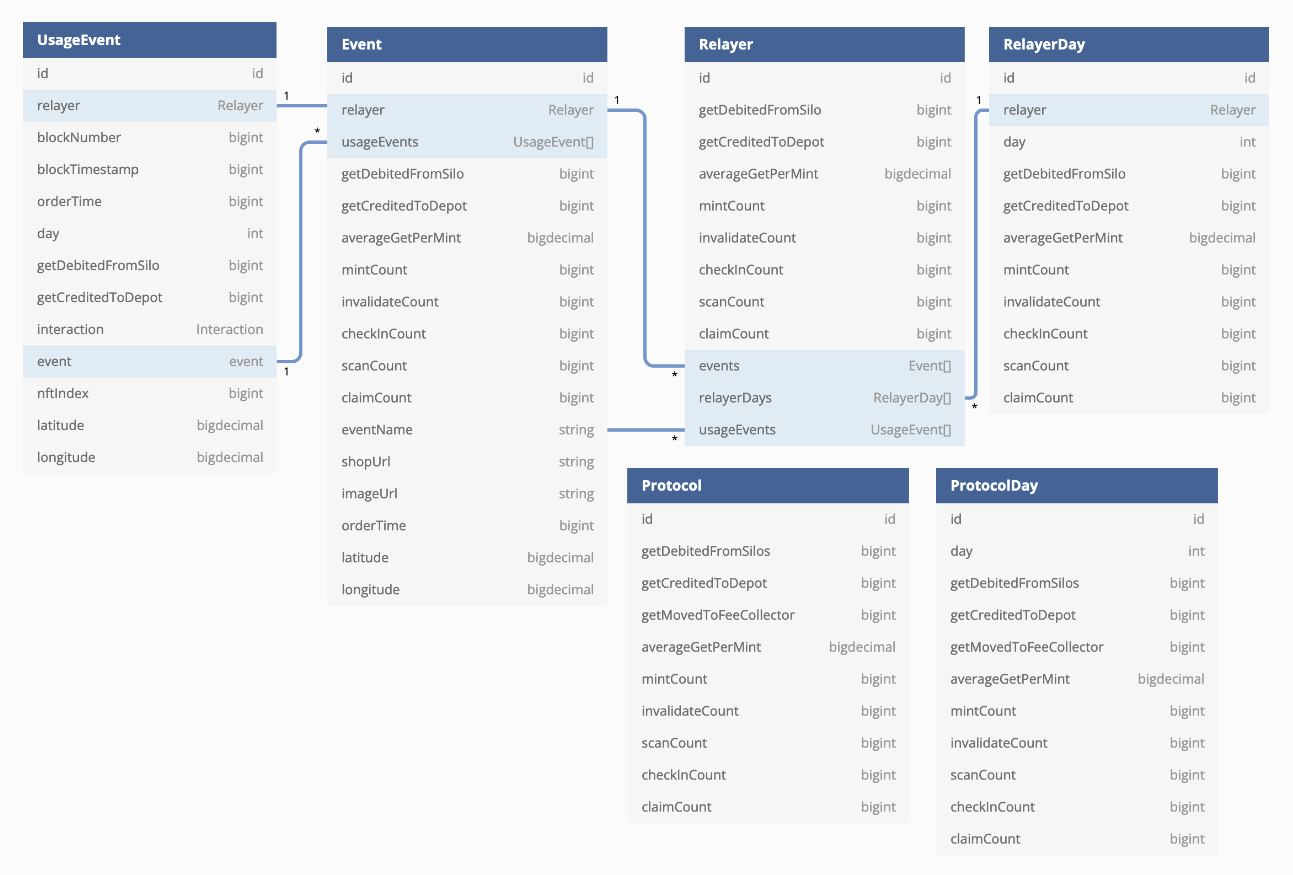
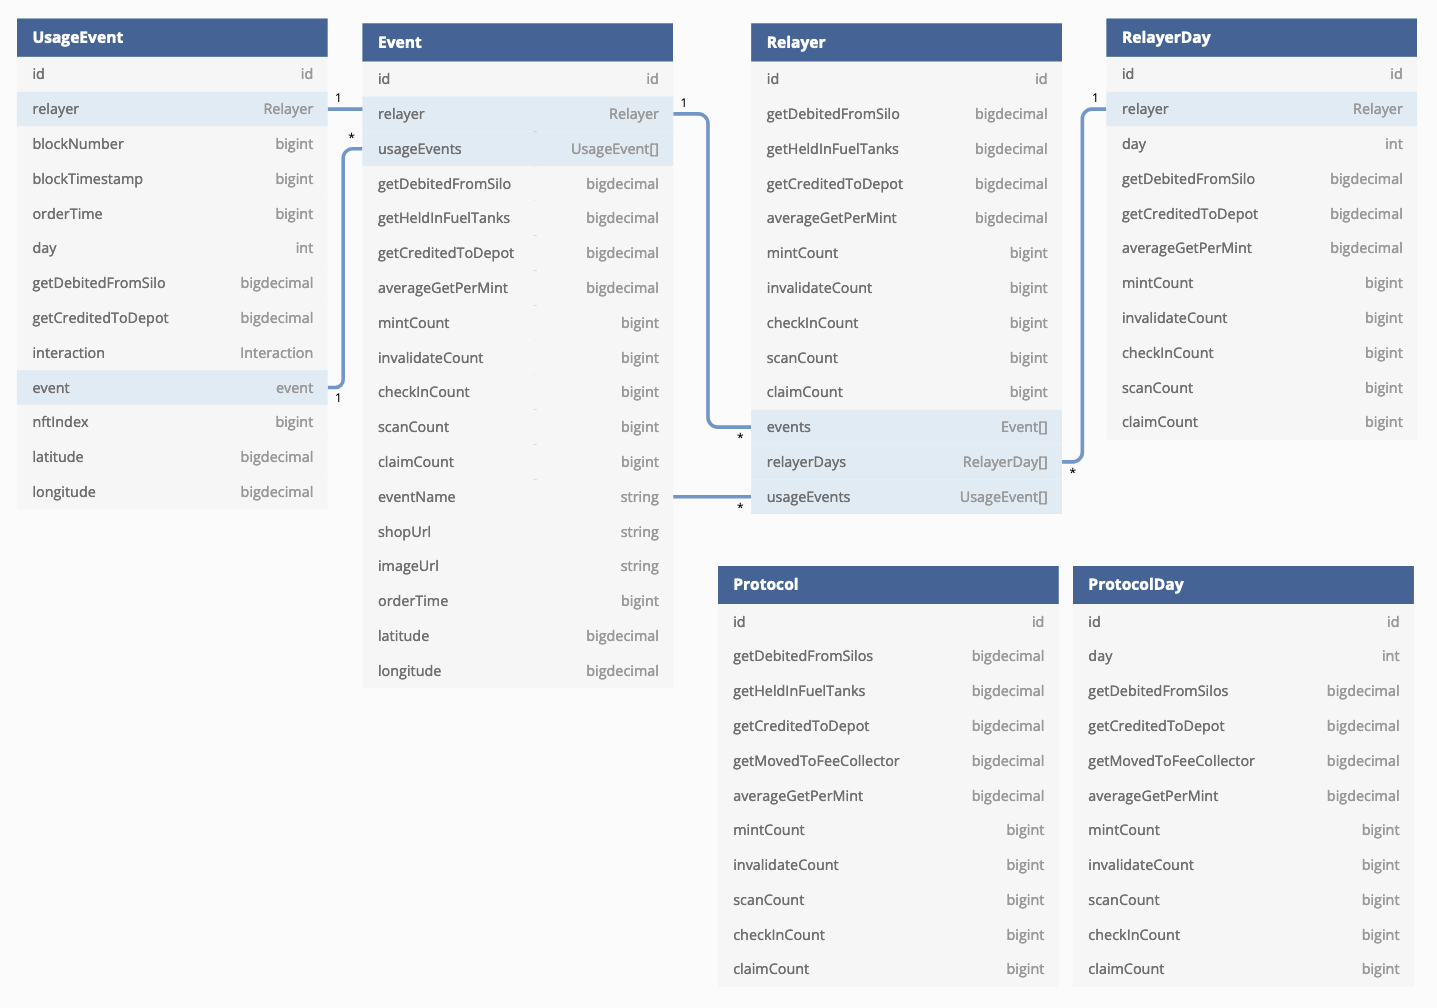
feat: v2 readiness against production
Tests the v2 contract ABIs against the production deployed proxies. This
commit should take us almost to being ready, aside from changing the
FUEL_ACTIVATED_BLOCK constant.

Changed region(s): [[0.0, 0.0, 0.9899, 0.9874], [0.8662, 0.648, 0.9899, 0.8949], [0.8971, 0.9566, 0.9899, 0.9874]]

diff --git a/src/mappings/v2/baseGET.ts b/src/mappings/v2/baseGET.ts
@@ -1,4 +1,4 @@
-import { BIG_INT_ONE, FUEL_ACTIVATED_BLOCK } from "../../constants";
+import { BIG_DECIMAL_1E18, BIG_INT_ONE, FUEL_ACTIVATED_BLOCK } from "../../constants";
 import { PrimarySaleMint, TicketInvalidated, TicketScanned, NftClaimed, CheckedIn } from "../../../generated/BaseGETV2/BaseGETV2";
 import { getProtocol, getRelayer, getProtocolDay, getRelayerDay, getEventByNftIndexV2, createUsageEvent } from "../../entities";
 
@@ -17,17 +17,21 @@ export function handlePrimarySaleMint(e: PrimarySaleMint): void {
   event.mintCount = event.mintCount.plus(BIG_INT_ONE);
 
   if (e.block.number.ge(FUEL_ACTIVATED_BLOCK)) {
-    protocol.getDebitedFromSilos = protocol.getDebitedFromSilos.plus(e.params.getUsed);
-    protocolDay.getDebitedFromSilos = protocolDay.getDebitedFromSilos.plus(e.params.getUsed);
-    relayer.getDebitedFromSilo = relayer.getDebitedFromSilo.plus(e.params.getUsed);
-    relayerDay.getDebitedFromSilo = relayerDay.getDebitedFromSilo.plus(e.params.getUsed);
-    event.getDebitedFromSilo = event.getDebitedFromSilo.plus(e.params.getUsed);
+    protocol.getDebitedFromSilos = protocol.getDebitedFromSilos.plus(e.params.getUsed.divDecimal(BIG_DECIMAL_1E18));
+    protocolDay.getDebitedFromSilos = protocolDay.getDebitedFromSilos.plus(e.params.getUsed.divDecimal(BIG_DECIMAL_1E18));
+    relayer.getDebitedFromSilo = relayer.getDebitedFromSilo.plus(e.params.getUsed.divDecimal(BIG_DECIMAL_1E18));
+    relayerDay.getDebitedFromSilo = relayerDay.getDebitedFromSilo.plus(e.params.getUsed.divDecimal(BIG_DECIMAL_1E18));
+    event.getDebitedFromSilo = event.getDebitedFromSilo.plus(e.params.getUsed.divDecimal(BIG_DECIMAL_1E18));
 
-    protocol.averageGetPerMint = protocol.getDebitedFromSilos.toBigDecimal().div(protocol.mintCount.toBigDecimal());
-    protocolDay.averageGetPerMint = protocolDay.getDebitedFromSilos.toBigDecimal().div(protocolDay.mintCount.toBigDecimal());
-    relayer.averageGetPerMint = relayer.getDebitedFromSilo.toBigDecimal().div(relayer.mintCount.toBigDecimal());
-    relayerDay.averageGetPerMint = relayerDay.getDebitedFromSilo.toBigDecimal().div(relayerDay.mintCount.toBigDecimal());
-    event.averageGetPerMint = event.getDebitedFromSilo.toBigDecimal().div(event.mintCount.toBigDecimal());
+    protocol.getHeldInFuelTanks = protocol.getHeldInFuelTanks.plus(e.params.getUsed.divDecimal(BIG_DECIMAL_1E18));
+    relayer.getHeldInFuelTanks = relayer.getHeldInFuelTanks.plus(e.params.getUsed.divDecimal(BIG_DECIMAL_1E18));
+    event.getHeldInFuelTanks = event.getHeldInFuelTanks.plus(e.params.getUsed.divDecimal(BIG_DECIMAL_1E18));
+
+    protocol.averageGetPerMint = protocol.getDebitedFromSilos.div(protocol.mintCount.toBigDecimal());
+    protocolDay.averageGetPerMint = protocolDay.getDebitedFromSilos.div(protocolDay.mintCount.toBigDecimal());
+    relayer.averageGetPerMint = relayer.getDebitedFromSilo.div(relayer.mintCount.toBigDecimal());
+    relayerDay.averageGetPerMint = relayerDay.getDebitedFromSilo.div(relayerDay.mintCount.toBigDecimal());
+    event.averageGetPerMint = event.getDebitedFromSilo.div(event.mintCount.toBigDecimal());
   }
 
   protocol.save();
@@ -54,11 +58,15 @@ export function handleTicketInvalidated(e: TicketInvalidated): void {
   event.invalidateCount = event.invalidateCount.plus(BIG_INT_ONE);
 
   if (e.block.number.ge(FUEL_ACTIVATED_BLOCK)) {
-    protocol.getCreditedToDepot = protocol.getCreditedToDepot.plus(e.params.getUsed);
-    protocolDay.getCreditedToDepot = protocolDay.getCreditedToDepot.plus(e.params.getUsed);
-    relayer.getCreditedToDepot = relayer.getCreditedToDepot.plus(e.params.getUsed);
-    relayerDay.getCreditedToDepot = relayerDay.getCreditedToDepot.plus(e.params.getUsed);
-    event.getCreditedToDepot = event.getCreditedToDepot.plus(e.params.getUsed);
+    protocol.getCreditedToDepot = protocol.getCreditedToDepot.plus(e.params.getUsed.divDecimal(BIG_DECIMAL_1E18));
+    protocolDay.getCreditedToDepot = protocolDay.getCreditedToDepot.plus(e.params.getUsed.divDecimal(BIG_DECIMAL_1E18));
+    relayer.getCreditedToDepot = relayer.getCreditedToDepot.plus(e.params.getUsed.divDecimal(BIG_DECIMAL_1E18));
+    relayerDay.getCreditedToDepot = relayerDay.getCreditedToDepot.plus(e.params.getUsed.divDecimal(BIG_DECIMAL_1E18));
+    event.getCreditedToDepot = event.getCreditedToDepot.plus(e.params.getUsed.divDecimal(BIG_DECIMAL_1E18));
+
+    protocol.getHeldInFuelTanks = protocol.getHeldInFuelTanks.minus(e.params.getUsed.divDecimal(BIG_DECIMAL_1E18));
+    relayer.getHeldInFuelTanks = relayer.getHeldInFuelTanks.minus(e.params.getUsed.divDecimal(BIG_DECIMAL_1E18));
+    event.getHeldInFuelTanks = event.getHeldInFuelTanks.minus(e.params.getUsed.divDecimal(BIG_DECIMAL_1E18));
   }
 
   protocol.save();
@@ -85,11 +93,15 @@ export function handleTicketScanned(e: TicketScanned): void {
   event.scanCount = event.scanCount.plus(BIG_INT_ONE);
 
   if (e.block.number.ge(FUEL_ACTIVATED_BLOCK)) {
-    protocol.getCreditedToDepot = protocol.getCreditedToDepot.plus(e.params.getUsed);
-    protocolDay.getCreditedToDepot = protocolDay.getCreditedToDepot.plus(e.params.getUsed);
-    relayer.getCreditedToDepot = relayer.getCreditedToDepot.plus(e.params.getUsed);
-    relayerDay.getCreditedToDepot = relayerDay.getCreditedToDepot.plus(e.params.getUsed);
-    event.getCreditedToDepot = event.getCreditedToDepot.plus(e.params.getUsed);
+    protocol.getCreditedToDepot = protocol.getCreditedToDepot.plus(e.params.getUsed.divDecimal(BIG_DECIMAL_1E18));
+    protocolDay.getCreditedToDepot = protocolDay.getCreditedToDepot.plus(e.params.getUsed.divDecimal(BIG_DECIMAL_1E18));
+    relayer.getCreditedToDepot = relayer.getCreditedToDepot.plus(e.params.getUsed.divDecimal(BIG_DECIMAL_1E18));
+    relayerDay.getCreditedToDepot = relayerDay.getCreditedToDepot.plus(e.params.getUsed.divDecimal(BIG_DECIMAL_1E18));
+    event.getCreditedToDepot = event.getCreditedToDepot.plus(e.params.getUsed.divDecimal(BIG_DECIMAL_1E18));
+
+    protocol.getHeldInFuelTanks = protocol.getHeldInFuelTanks.minus(e.params.getUsed.divDecimal(BIG_DECIMAL_1E18));
+    relayer.getHeldInFuelTanks = relayer.getHeldInFuelTanks.minus(e.params.getUsed.divDecimal(BIG_DECIMAL_1E18));
+    event.getHeldInFuelTanks = event.getHeldInFuelTanks.minus(e.params.getUsed.divDecimal(BIG_DECIMAL_1E18));
   }
 
   protocol.save();
@@ -116,11 +128,15 @@ export function handleCheckedIn(e: CheckedIn): void {
   event.claimCount = event.claimCount.plus(BIG_INT_ONE);
 
   if (e.block.number.ge(FUEL_ACTIVATED_BLOCK)) {
-    protocol.getCreditedToDepot = protocol.getCreditedToDepot.plus(e.params.getUsed);
-    protocolDay.getCreditedToDepot = protocolDay.getCreditedToDepot.plus(e.params.getUsed);
-    relayer.getCreditedToDepot = relayer.getCreditedToDepot.plus(e.params.getUsed);
-    relayerDay.getCreditedToDepot = relayerDay.getCreditedToDepot.plus(e.params.getUsed);
-    event.getCreditedToDepot = event.getCreditedToDepot.plus(e.params.getUsed);
+    protocol.getCreditedToDepot = protocol.getCreditedToDepot.plus(e.params.getUsed.divDecimal(BIG_DECIMAL_1E18));
+    protocolDay.getCreditedToDepot = protocolDay.getCreditedToDepot.plus(e.params.getUsed.divDecimal(BIG_DECIMAL_1E18));
+    relayer.getCreditedToDepot = relayer.getCreditedToDepot.plus(e.params.getUsed.divDecimal(BIG_DECIMAL_1E18));
+    relayerDay.getCreditedToDepot = relayerDay.getCreditedToDepot.plus(e.params.getUsed.divDecimal(BIG_DECIMAL_1E18));
+    event.getCreditedToDepot = event.getCreditedToDepot.plus(e.params.getUsed.divDecimal(BIG_DECIMAL_1E18));
+
+    protocol.getHeldInFuelTanks = protocol.getHeldInFuelTanks.minus(e.params.getUsed.divDecimal(BIG_DECIMAL_1E18));
+    relayer.getHeldInFuelTanks = relayer.getHeldInFuelTanks.minus(e.params.getUsed.divDecimal(BIG_DECIMAL_1E18));
+    event.getHeldInFuelTanks = event.getHeldInFuelTanks.minus(e.params.getUsed.divDecimal(BIG_DECIMAL_1E18));
   }
 
   protocol.save();

diff --git a/src/constants/index.ts b/src/constants/index.ts
@@ -1,30 +1,29 @@
 import { Address, BigDecimal, BigInt } from "@graphprotocol/graph-ts";
 
 export let EVENT_METADATA_STORAGE_ADDRESS_V1 = Address.fromString("0xcDA348fF8C175f305Ed8682003ec6F8743067f79");
-export let EVENT_METADATA_STORAGE_ADDRESS_V2 = Address.fromString("0x8Af4404b7158Eb0fe8dD5f7AC57e783cbDf68bF0");
+export let EVENT_METADATA_STORAGE_ADDRESS_V2 = Address.fromString("0x08C2aF3F01A36AD9F274ccE77f6f77cf9aa1dfC9");
 export let NFT_ADDRESS_V1 = Address.fromString("0x308e44cA2153C61103b0DC67Fd038De650912b73");
-export let NFT_ADDRESS_V2 = Address.fromString("0xDf97dB4828a8D985c9ef617004a9BD9f9eE3fac2");
+export let NFT_ADDRESS_V2 = Address.fromString("0xbce1b23c7544422f1E2208d29A6A3AA9fAbAB250");
 export let ADDRESS_ZERO = Address.fromString("0x0000000000000000000000000000000000000000");
-
[1 lines of base64/hex data omitted]
 
 // endBlock is not yet natively supported in subgraph.yaml meaning that we manually need to skip
 // events for old ABI versions after the point they are switched. If the event name changes then
 // this would not be required, but we apply this across all hanlders for safety and consistency.
 // See: https://github.com/graphprotocol/support/issues/49
-export let V1_END_BLOCK = BigInt.fromI32(20083296);
-export let FUEL_ACTIVATED_BLOCK = BigInt.fromI32(20083296);
+export let V1_END_BLOCK = BigInt.fromI32(20384301);
+// txHash: 0x47bdbebd125bd5c1ec8ce0d6a719da55543875f7c2cd7c1a49da19bbf04208ec
+export let FUEL_ACTIVATED_BLOCK = BigInt.fromI32(20386345);
 
+export let BIG_DECIMAL_ZERO = BigDecimal.fromString("0");
+export let BIG_DECIMAL_ONE = BigDecimal.fromString("1");
 export let BIG_DECIMAL_1E6 = BigDecimal.fromString("1e6");
 export let BIG_DECIMAL_1E12 = BigDecimal.fromString("1e12");
 export let BIG_DECIMAL_1E18 = BigDecimal.fromString("1e18");
-export let BIG_DECIMAL_ZERO = BigDecimal.fromString("0");
-export let BIG_DECIMAL_ONE = BigDecimal.fromString("1");
 
+export let BIG_INT_MINUS_ONE = BigInt.fromI32(-1);
+export let BIG_INT_ZERO = BigInt.fromI32(0);
 export let BIG_INT_ONE = BigInt.fromI32(1);
 export let BIG_INT_TWO = BigInt.fromI32(2);
 export let BIG_INT_TEN = BigInt.fromI32(10);
 export let BIG_INT_ONE_HUNDRED = BigInt.fromI32(100);
 export let BIG_INT_ONE_DAY_SECONDS = BigInt.fromI32(86400);
-export let BIG_INT_ZERO = BigInt.fromI32(0);
-export let BIG_INT_MINUS_ONE = BigInt.fromI32(-1);

diff --git a/src/entities/usageEvent.ts b/src/entities/usageEvent.ts
@@ -1,6 +1,6 @@
 import { BigInt, ethereum } from "@graphprotocol/graph-ts";
 import { Event, UsageEvent } from "../../generated/schema";
-import { BIG_DECIMAL_ZERO, BIG_INT_ZERO } from "../constants";
+import { BIG_DECIMAL_1E18, BIG_DECIMAL_ZERO, BIG_INT_ZERO } from "../constants";
 
 export function getUsageEvent(e: ethereum.Event): UsageEvent {
   let timestamp = e.block.timestamp;
@@ -14,8 +14,8 @@ export function getUsageEvent(e: ethereum.Event): UsageEvent {
   usageEvent.blockTimestamp = timestamp;
   usageEvent.orderTime = BIG_INT_ZERO;
   usageEvent.day = day;
-  usageEvent.getDebitedFromSilo = BIG_INT_ZERO;
-  usageEvent.getCreditedToDepot = BIG_INT_ZERO;
+  usageEvent.getDebitedFromSilo = BIG_DECIMAL_ZERO;
+  usageEvent.getCreditedToDepot = BIG_DECIMAL_ZERO;
   usageEvent.event = "";
   usageEvent.nftIndex = BIG_INT_ZERO;
   usageEvent.type = "";
@@ -45,10 +45,10 @@ export function createUsageEvent(
     usageEvent.longitude = event.longitude;
   }
 
-  if (type === "MINT") {
-    usageEvent.getDebitedFromSilo = getUsed;
-  } else if (type === "INVALIDATE" || type === "SCAN" || type === "CHECK_IN") {
-    usageEvent.getCreditedToDepot = getUsed;
+  if (type == "MINT") {
+    usageEvent.getDebitedFromSilo = getUsed.divDecimal(BIG_DECIMAL_1E18);
+  } else if (type == "INVALIDATE" || type == "SCAN" || type == "CHECK_IN") {
+    usageEvent.getCreditedToDepot = getUsed.divDecimal(BIG_DECIMAL_1E18);
   }
 
   usageEvent.save();

diff --git a/src/mappings/v2/economicsGET.ts b/src/mappings/v2/economicsGET.ts
@@ -1,5 +1,5 @@
 import { DepotSwiped } from "../../../generated/EconomicsGETV2/EconomicsGETV2";
-import { FUEL_ACTIVATED_BLOCK } from "../../constants";
+import { BIG_DECIMAL_1E18, FUEL_ACTIVATED_BLOCK } from "../../constants";
 import { getProtocol, getProtocolDay } from "../../entities";
 
 export function handleDepotSwiped(e: DepotSwiped): void {
@@ -7,8 +7,8 @@ export function handleDepotSwiped(e: DepotSwiped): void {
   let protocolDay = getProtocolDay(e);
 
   if (e.block.number.ge(FUEL_ACTIVATED_BLOCK)) {
-    protocol.getMovedToFeeCollector = protocol.getMovedToFeeCollector.plus(e.params.balance);
-    protocolDay.getMovedToFeeCollector = protocolDay.getMovedToFeeCollector.plus(e.params.balance);
+    protocol.getMovedToFeeCollector = protocol.getMovedToFeeCollector.plus(e.params.balance.divDecimal(BIG_DECIMAL_1E18));
+    protocolDay.getMovedToFeeCollector = protocolDay.getMovedToFeeCollector.plus(e.params.balance.divDecimal(BIG_DECIMAL_1E18));
     protocol.save();
     protocolDay.save();
   }

diff --git a/src/entities/protocolDay.ts b/src/entities/protocolDay.ts
@@ -10,9 +10,9 @@ export function getProtocolDay(e: ethereum.Event): ProtocolDay {
   if (protocolDay == null) {
     protocolDay = new ProtocolDay(id.toString());
     protocolDay.day = day;
-    protocolDay.getDebitedFromSilos = BIG_INT_ZERO;
-    protocolDay.getCreditedToDepot = BIG_INT_ZERO;
-    protocolDay.getMovedToFeeCollector = BIG_INT_ZERO;
+    protocolDay.getDebitedFromSilos = BIG_DECIMAL_ZERO;
+    protocolDay.getCreditedToDepot = BIG_DECIMAL_ZERO;
+    protocolDay.getMovedToFeeCollector = BIG_DECIMAL_ZERO;
     protocolDay.averageGetPerMint = BIG_DECIMAL_ZERO;
     protocolDay.mintCount = BIG_INT_ZERO;
     protocolDay.scanCount = BIG_INT_ZERO;

diff --git a/src/entities/protocol.ts b/src/entities/protocol.ts
@@ -8,9 +8,10 @@ export function getProtocol(): Protocol {
 
   if (protocol == null) {
     protocol = new Protocol(id.toString());
-    protocol.getDebitedFromSilos = BIG_INT_ZERO;
-    protocol.getCreditedToDepot = BIG_INT_ZERO;
-    protocol.getMovedToFeeCollector = BIG_INT_ZERO;
+    protocol.getDebitedFromSilos = BIG_DECIMAL_ZERO;
+    protocol.getHeldInFuelTanks = BIG_DECIMAL_ZERO;
+    protocol.getCreditedToDepot = BIG_DECIMAL_ZERO;
+    protocol.getMovedToFeeCollector = BIG_DECIMAL_ZERO;
     protocol.averageGetPerMint = BIG_DECIMAL_ZERO;
     protocol.mintCount = BIG_INT_ZERO;
     protocol.scanCount = BIG_INT_ZERO;

diff --git a/src/entities/relayerDay.ts b/src/entities/relayerDay.ts
@@ -12,8 +12,8 @@ export function getRelayerDay(e: ethereum.Event): RelayerDay {
     relayerDay = new RelayerDay(id);
     relayerDay.relayer = relayerAddress;
     relayerDay.day = day;
-    relayerDay.getDebitedFromSilo = BIG_INT_ZERO;
-    relayerDay.getCreditedToDepot = BIG_INT_ZERO;
+    relayerDay.getDebitedFromSilo = BIG_DECIMAL_ZERO;
+    relayerDay.getCreditedToDepot = BIG_DECIMAL_ZERO;
     relayerDay.averageGetPerMint = BIG_DECIMAL_ZERO;
     relayerDay.mintCount = BIG_INT_ZERO;
     relayerDay.scanCount = BIG_INT_ZERO;

diff --git a/src/entities/relayer.ts b/src/entities/relayer.ts
@@ -8,8 +8,9 @@ export function getRelayer(e: ethereum.Event): Relayer {
 
   if (relayer == null) {
     relayer = new Relayer(id);
-    relayer.getDebitedFromSilo = BIG_INT_ZERO;
-    relayer.getCreditedToDepot = BIG_INT_ZERO;
+    relayer.getDebitedFromSilo = BIG_DECIMAL_ZERO;
+    relayer.getHeldInFuelTanks = BIG_DECIMAL_ZERO;
+    relayer.getCreditedToDepot = BIG_DECIMAL_ZERO;
     relayer.averageGetPerMint = BIG_DECIMAL_ZERO;
     relayer.mintCount = BIG_INT_ZERO;
     relayer.scanCount = BIG_INT_ZERO;

diff --git a/src/entities/event.ts b/src/entities/event.ts
@@ -9,8 +9,9 @@ export function getEvent(eventAddress: string): Event {
 
   if (event == null) {
     event = new Event(eventAddress);
-    event.getDebitedFromSilo = BIG_INT_ZERO;
-    event.getCreditedToDepot = BIG_INT_ZERO;
+    event.getDebitedFromSilo = BIG_DECIMAL_ZERO;
+    event.getHeldInFuelTanks = BIG_DECIMAL_ZERO;
+    event.getCreditedToDepot = BIG_DECIMAL_ZERO;
     event.averageGetPerMint = BIG_DECIMAL_ZERO;
     event.mintCount = BIG_INT_ZERO;
     event.scanCount = BIG_INT_ZERO;

diff --git a/README.md b/README.md
@@ -43,6 +43,7 @@ There are a number of steps that GET takes throughout its lifecycle and the subg
 Available on Relayer and Protocol entities:
 
 - `getDebitedFromSilos` contains the amount of GET moved from the Silo to the NFT Fuel Tank when minting NFT tickets.
+- `getHeldInFuelTanks` contains the total amount of all GET held within the NFT Fuel Tanks, awaiting a move to the depot.
 - `getCreditedToDepot` records the GET balance credited to the Depot balance when a ticket is checked-in (finalized).
 
 Available only on the Protocol entities:
@@ -57,7 +58,7 @@ Additionally the `averageGetPerMint` provides the average amount of GET that has
 
 ## Setup
 
-Start by setting up a [graphprotocol/graph-node](https://github.com/graphprotocol/graph-node). For this you will also need a [Polygon RPC endpoint](https://docs.matic.network/docs/develop/network-details/network/) for the graph-node to index from. [Infura](https://infura.io/) or [Moralis (Speedy Nodes)](https://moralis.io/) provide enough capacity on their free-tiers.
+Start by setting up a [graphprotocol/graph-node](https://github.com/graphprotocol/graph-node). For this you will also need a [Polygon RPC endpoint](https://docs.matic.network/docs/develop/network-details/network/) for the graph-node to index from. [Infura](https://infura.io/) or [Moralis (Speedy Nodes)](https://moralis.io/) provide enough capacity on their free-tiers. An archive server is recommended.
 
 1. Clone graphprotocol/graph-node to a local directory.
 2. Edit the `services.graph-node.environment.ethereum` key within docker/docker-compose.yml to read `matic:<RPC_ENDPOINT>`.
